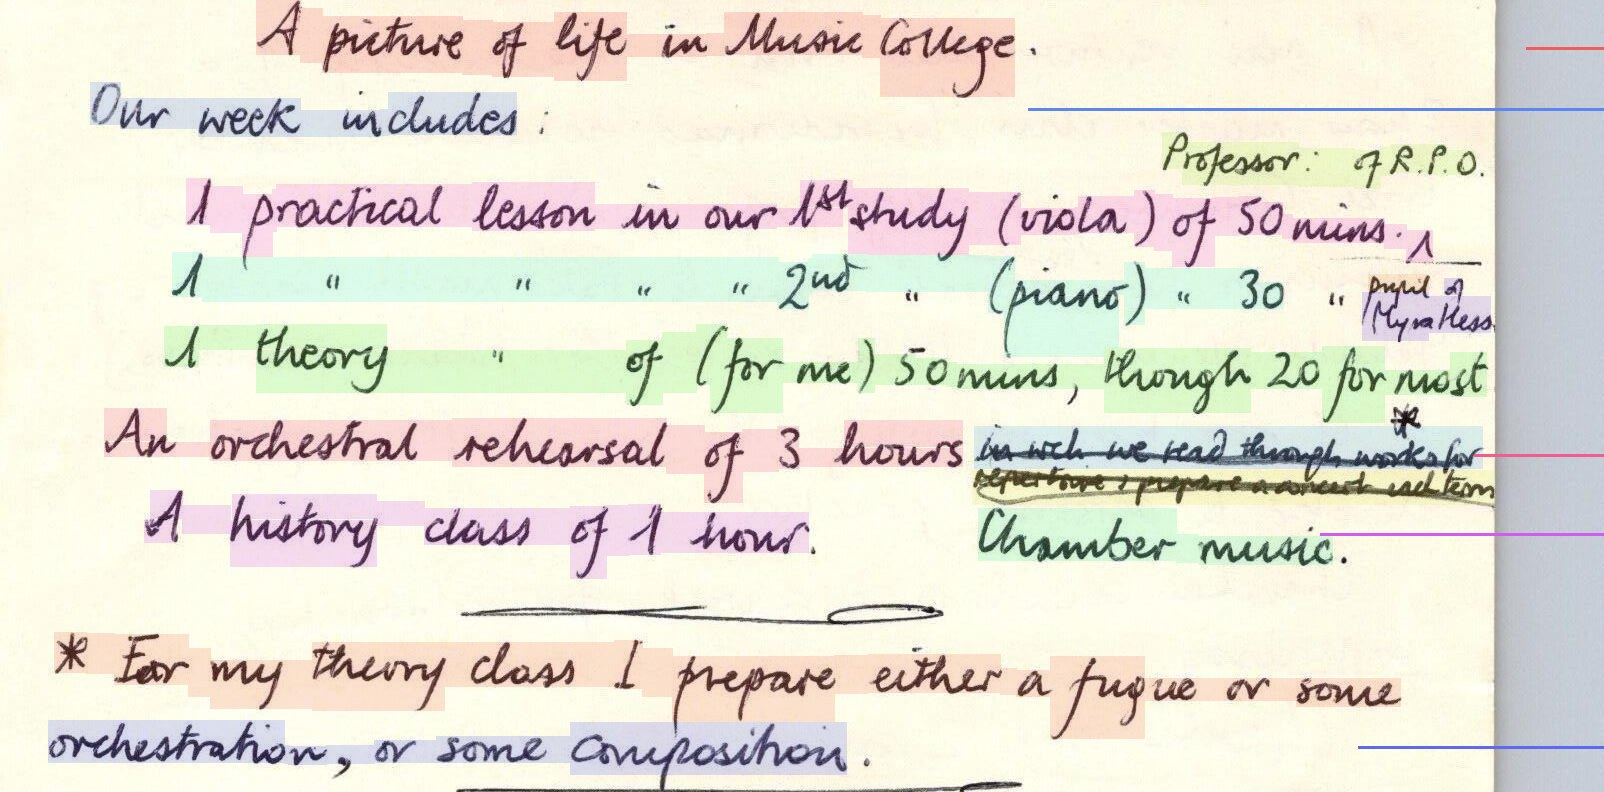
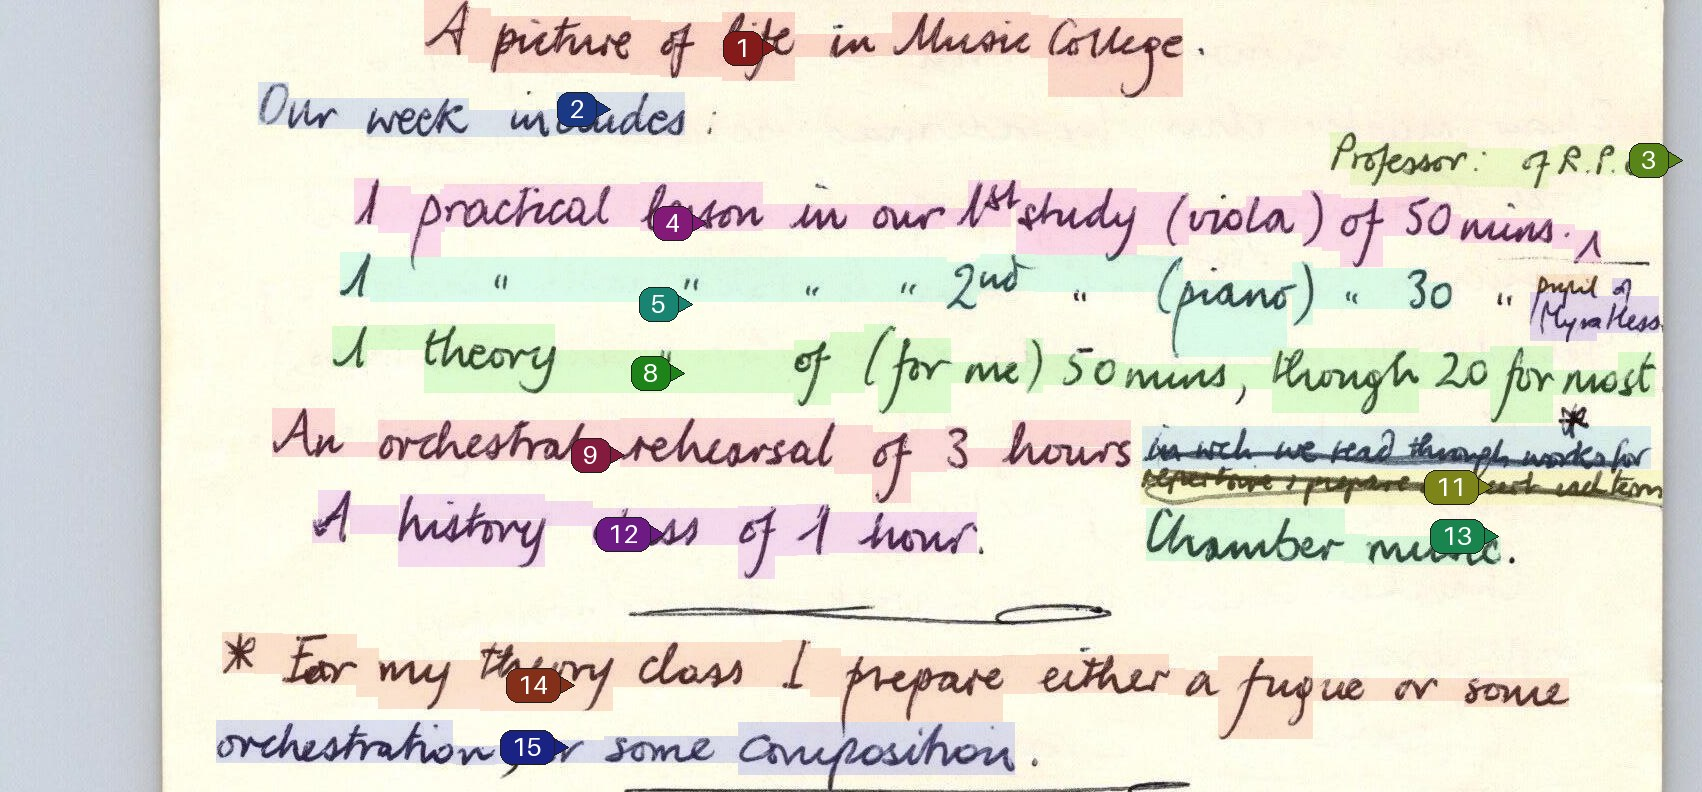
fix: a number is painted where its row is — the crop's x origin, in bands
The model read bands 2 and 3 of page-01 and refused every one of them, then
read all 41 rows alone, and the transcript got worse, not better. The cause was
measurable in the images rather than in the model: `render_strips` crops the
page, and `_draw` took the crop's Y origin off the numbers but not its X. Every
number was therefore painted `ink_left` px (344px on page-01) right of its row —
over the middle of the writing, beside a neighbouring line. Row 1's writing sits
at strip x 269; its number was painted at x 724-770. The vision model, given that
strip, reported numbers 6, 7 and 10 as absent altogether and read 9 and 11 as
pointing at the same row — exactly the merges the reader then refused on.

The full-page sheet has no crop, which is why the reviewer's view looked right
while every image the model received was wrong.

Second bug, same shape: the pill's colour came from its position in the image
rather than the row's own number, so in bands 2 and 3 (rows 16-27, 28-41) every
number carried a different row's colour — the colour pairing broken exactly
where it was the only cue left.

Both are rules now: the number lands beside its row inside a cut band, and it is
painted in its own row's colour after the crop's origin is taken off. Measured
after the fix: 15 of band 1's numbers painted at their rows' gutters.

diff --git a/document/numbered_rows.py b/document/numbered_rows.py
@@ -132,16 +132,23 @@ class NumberedRows:
             if not inside:
                 continue  # a band with no rows is an image of a margin
             crop = page.convert("RGB").crop((ink_left, band_top, ink_right, band_bottom))
-            out.append(cls._draw(crop, inside, offset_y=band_top))
+            # BOTH origins are taken off the numbers. With only the y taken off,
+            # every number was painted `ink_left` px right of its row — on the
+            # middle of the writing, in the middle of a neighbouring row — which
+            # is what made the bands unreadable and sent every row to the
+            # read-alone path.
+            out.append(cls._draw(crop, inside, offset_x=ink_left, offset_y=band_top))
         return out
 
     @classmethod
-    def draw_numbers(cls, canvas: Image.Image, rows: list[Row], *, offset_y: float = 0) -> NumberedRows:
+    def draw_numbers(
+        cls, canvas: Image.Image, rows: list[Row], *, offset_x: float = 0, offset_y: float = 0
+    ) -> NumberedRows:
         """`canvas` with the rows' numbers drawn in the gutter, as `render`
         draws them — the one place row numbers are painted, so a caller that
         already has a rendered page (a tinted comparison sheet, say) uses the
         same convention rather than a second one."""
-        return cls._draw(canvas, sorted(rows, key=lambda row: row.number), offset_y=offset_y)
+        return cls._draw(canvas, sorted(rows, key=lambda row: row.number), offset_x=offset_x, offset_y=offset_y)
 
     @classmethod
     def numbers_extent(cls, rows: list[Row], *, offset_y: float = 0) -> tuple[float, float]:
@@ -216,20 +223,25 @@ class NumberedRows:
         return "right" if (box.x0 + box.x1) / 2 < (row.band.x0 + row.band.x1) / 2 else "left"
 
     @classmethod
-    def _draw(cls, canvas: Image.Image, rows: list[Row], *, offset_y: float) -> NumberedRows:
+    def _draw(cls, canvas: Image.Image, rows: list[Row], *, offset_x: float = 0, offset_y: float = 0) -> NumberedRows:
         """One image with the numbers of `rows` drawn on it, page coordinates
-        shifted into this image's own space."""
+        shifted into this image's own space — BOTH axes: a cut-out band has an
+        x origin as much as a y one."""
         numbers = {row.id: row.number for row in rows}
         draw = ImageDraw.Draw(canvas)
         font = _font()
-        for index, (row, box) in enumerate(zip(rows, cls._pill_boxes(rows), strict=False)):
-            left, top, right, bottom = box.x0, box.y0 - offset_y, box.x1, box.y1 - offset_y
+        for row, box in zip(rows, cls._pill_boxes(rows), strict=False):
+            left, top = box.x0 - offset_x, box.y0 - offset_y
+            right, bottom = box.x1 - offset_x, box.y1 - offset_y
             measured = draw.textbbox((0, 0), str(row.number), font=font)
             # the row's own hue at full strength: the pill and its band are one
-            # colour, so a number can be matched to its line by colour alone
-            fill = cls.pill_colour(index)
-            edge_left = min((word.x0 for word in row.word_boxes), default=row.band.x0)
-            edge_right = max((word.x1 for word in row.word_boxes), default=row.band.x1)
+            # colour, so a number can be matched to its line by colour alone.
+            # The palette index is the row's NUMBER, not its place in this
+            # image: in a band the two differ, and the colour stopped matching
+            # the band it came from.
+            fill = cls.pill_colour(row.number - 1)
+            edge_left = min((word.x0 for word in row.word_boxes), default=row.band.x0) - offset_x
+            edge_right = max((word.x1 for word in row.word_boxes), default=row.band.x1) - offset_x
             centre_y = (top + bottom) / 2
             # the pointer and the leader both sit on the side the row lies
             # beyond, and the leader stops at the row's NEAREST edge — drawn to

diff --git a/tests/test_numbered_rows.py b/tests/test_numbered_rows.py
@@ -15,10 +15,11 @@ from __future__ import annotations
 import colorsys
 from pathlib import Path
 
+import numpy as np
 from PIL import Image
 
 from document.numbered_rows import PILL_INSET as PILL_GAP
-from document.numbered_rows import NumberedRows
+from document.numbered_rows import PILL_POINTER, NumberedRows
 from tools.eval_rows_transcript import words_from
 from tools.rectangle import Rectangle, overlaps
 from tools.row import Row
@@ -176,3 +177,55 @@ def test_a_number_carries_its_own_rows_hue() -> None:
         pill_hue = colorsys.rgb_to_hsv(red / 255, green / 255, blue / 255)[0]
         turn = abs(((band_hue - pill_hue) + 0.5) % 1.0 - 0.5)
         assert turn < 0.02, f"row {row.number}: the number's hue is {turn:.3f} of a turn from its band's"
+
+
+def test_a_number_lands_beside_its_row_inside_a_cut_band() -> None:
+    """A band is a crop, so it has an x origin as well as a y one. Taking off
+    only the y painted every number ~450px right of its row — over the middle
+    of the writing, beside a neighbouring line — which is what made the model
+    merge rows 6, 7 and 10 into their neighbours and refuse every band."""
+    page = Image.new("RGB", (2544, 4642), (250, 250, 250))
+    rows = _page01_rows()
+    strips = NumberedRows.render_strips(page, rows, strips=3)
+    assert strips, "no strips were rendered"
+    seen: set[int] = set()
+    for strip in strips:
+        for row in rows:
+            number = strip.numbers.get(row.id)
+            if number is None:
+                continue
+            seen.add(number)
+            assert number == row.number, f"{row.id} is numbered {number}, not {row.number}"
+    assert seen == {row.number for row in rows}, "a row is missing from every strip"
+
+
+def test_a_number_is_painted_at_the_crops_origin_in_its_own_colour() -> None:
+    """Two ways to get a number wrong in a band, in one check: painted in page
+    coordinates on a cropped canvas (it lands beside another row), and coloured
+    by its place in the image rather than its own number (the band it matches
+    is the wrong one). Row 28 is wanted because it is neither the first row nor
+    in the first band."""
+    rows = [
+        Row(
+            id="seg-28",
+            kind="body",
+            number=28,
+            word_boxes=[_word(600, 100, 900, 140)],
+            band=Rectangle(600, 100, 900, 140),
+        )
+    ]
+    canvas = Image.new("RGB", (500, 200), (250, 250, 250))
+    drawn = NumberedRows.draw_numbers(canvas, rows, offset_x=200)
+    assert drawn.numbers == {"seg-28": 28}
+    expected = NumberedRows.pill_colour(27)
+    painted = np.nonzero(np.all(np.asarray(canvas) == expected, axis=2))[1]
+    assert len(painted), "the number was not painted in its own row's colour"
+    box = NumberedRows._pill_boxes(rows)[0]
+    gutter_x, pill_right = box.x0 - 200, box.x1 - 200
+    assert abs(int(painted.min()) - gutter_x) <= 2, (
+        f"the pill starts at x{painted.min()}; its row's gutter in the crop is x{gutter_x}"
+    )
+    # the pointer reaches PILL_POINTER px further out, toward its row
+    assert int(painted.max()) <= pill_right + PILL_POINTER + 2, (
+        f"the number reaches x{painted.max()}, past its row's pill at x{pill_right}"
+    )
